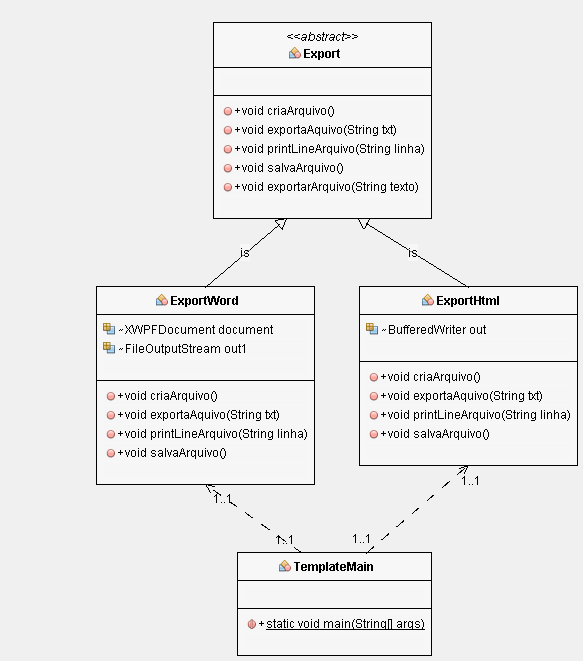
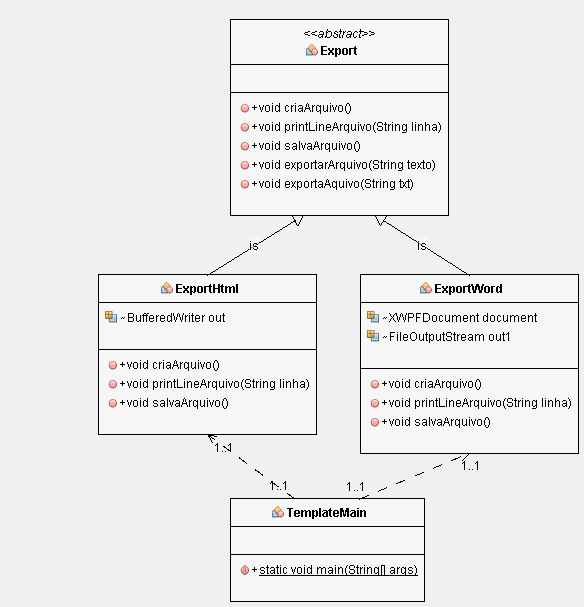
Padrao Template - Export Files

diff --git a/TemplateExportFiles/src/exerciciotemplateexportfiles/Export.java b/TemplateExportFiles/src/exerciciotemplateexportfiles/Export.java
@@ -10,15 +10,23 @@ package exerciciotemplateexportfiles;
  * @author Giseli
  */
 public abstract class Export {
-    private String txt, linha;
     
     public abstract void criaArquivo();
-    public abstract void exportaAquivo(String txt);
+   // public abstract void exportaAquivo(String txt);
     public abstract void printLineArquivo(String linha);
     public abstract void salvaArquivo();
     
     public void exportarArquivo(String texto){
         criaArquivo();
         exportaAquivo(texto);
+    }
+    
+    public void exportaAquivo(String txt) {
+        String[] txtLinhas = txt.split("\n");
+        for(Object linhas : txtLinhas )
+        {
+            printLineArquivo((String)linhas);
+        }   
+        salvaArquivo(); 
     }
 }

diff --git a/TemplateExportFiles/src/exerciciotemplateexportfiles/ExportHtml.java b/TemplateExportFiles/src/exerciciotemplateexportfiles/ExportHtml.java
@@ -35,17 +35,7 @@ public class ExportHtml extends Export{
             Logger.getLogger(ExportFiles.class.getName()).log(Level.SEVERE, null, ex);
         }
     }
-
-    @Override
-    public void exportaAquivo(String txt) {
-        String[] txtLinhas = txt.split("\n");
-        for(Object linhas : txtLinhas )
-        {
-            printLineArquivo((String)linhas);
-        }   
-        salvaArquivo();
-    }
-
+    
     @Override
     public void printLineArquivo(String linha) {
         try {

diff --git a/TemplateExportFiles/src/exerciciotemplateexportfiles/ExportWord.java b/TemplateExportFiles/src/exerciciotemplateexportfiles/ExportWord.java
@@ -37,17 +37,7 @@ public class ExportWord extends Export{
         }
         
     }
-
-    @Override
-    public void exportaAquivo(String txt) {
-        String[] txtLinhas = txt.split("\n");
-        for(Object linhas : txtLinhas )
-        {
-            printLineArquivo((String)linhas);
-        }   
-        salvaArquivo(); 
-    }
-
+    
     @Override
     public void printLineArquivo(String linha) {
         XWPFParagraph paragraph = document.createParagraph();
